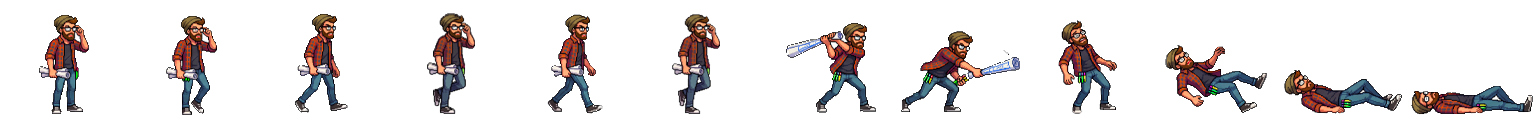
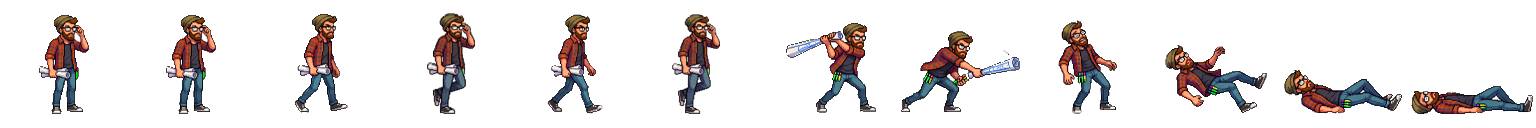
feat: add new taxi asset and implement multi-phase boss mechanics with enhanced attack patterns

Changed region(s): [[0.0938, 0.125, 0.1562, 0.9062]]

diff --git a/game_v2/js/PixelPunchEngine.js b/game_v2/js/PixelPunchEngine.js
@@ -152,7 +152,7 @@
     {
       title: 'LA SCADENZA',
       subtitle: 'VENERDÌ ORE 19:00',
-      text: 'È venerdì sera a Torino e mancano solo 5 ore alla scadenza improrogabile del progetto della vita.\n\nLa campagna da un milione di euro che salverà ActingOut dal fallimento e dalla vendita alla multinazionale "RAI" è pronta per l\'esportazione.'
+      text: 'È venerdì sera a Torino e mancano solo 5 ore alla scadenza improrogabile del progetto della vita.\n\nLa campagna da un milione di euro che salverà ActingOut dal fallimento e dalla vendita alla multinazionale "RAI" è pronta per\'esportazione.'
     },
     {
       title: 'IL SABOTAGGIO',
@@ -563,6 +563,7 @@
       }
       this.load.spritesheet(`boss_${s}`, ROOT + `boss/${BOSS_FILES[s - 1]}`, { frameWidth: 128, frameHeight: 128 });
 
+      // Crate e oggetti distruttibili
       CRATES[s - 1].forEach((name, i) => {
         const base = `oggettidistruttibili/Scenario${s}/${name}_crate_`;
         loadImage(this, `crate_${i}_whole`, base + 'whole.png');
@@ -572,6 +573,11 @@
       });
       PICKUPS[s - 1].forEach((file, i) => loadImage(this, `point_${i}`, `raccoglibili/Scenario${s}/${file}`));
       LIVES[s - 1].forEach((file, i) => loadImage(this, `life_${i}`, `vite/Scenario${s}/${file}`));
+
+      // Asset specifico per Taxi proiettile Boss 3
+      if (s === 3) {
+        loadImage(this, 'taxi_vehicle', 'cattivi/taxi.png');
+      }
     }
 
     create() {
@@ -618,6 +624,7 @@
       });
       [0x56f7ff, 0xffdb42, 0xff54b3].forEach((color, i) => ensureImage(this, `point_${i}`, 40, 40, color));
       [0x5cff72, 0x39ffbc].forEach((color, i) => ensureImage(this, `life_${i}`, 40, 40, color));
+      if (this.stage === 3) ensureImage(this, 'taxi_vehicle', 120, 50, 0xffea00);
     }
 
     createAnimations() {
@@ -680,9 +687,14 @@
       this.physics.add.overlap(this.player, this.pickupGroup, this.collectPickup, undefined, this);
     }
 
+    // Ingrandimento speciale per gli ostacoli di Scenario 2 (Luce/Faretti)
     resizeCrate(crate, textureKey) {
       const frame = this.textures.getFrame(textureKey);
-      const maxDimension = 54 * OBJECT_SCALE * (crate.isCoffeeMachine ? 1.15 : 1);
+      let multiplier = crate.isCoffeeMachine ? 1.15 : 1;
+      if (this.stage === 2 && crate.variant === 0) {
+        multiplier *= 2; // Raddoppiato come richiesto
+      }
+      const maxDimension = 54 * OBJECT_SCALE * multiplier;
       const scale = maxDimension / Math.max(frame.width, frame.height);
       const width = frame.width * scale;
       const height = frame.height * scale;
@@ -906,10 +918,16 @@
       
       boss.setDepth(boss.y);
       boss.hp = 200 + this.stage * 50; boss.maxHp = boss.hp; boss.damage = 18 + this.stage * 3;
-      boss.speed = 55 + this.stage * 3;
-      boss.nextAttack = this.time.now + 1250; boss.isBoss = true; boss.facing = side === 'left' ? 1 : -1;
+      boss.speed = 70 + this.stage * 4;
+      boss.nextAttack = this.time.now + 1200; boss.isBoss = true; boss.facing = side === 'left' ? 1 : -1;
       boss.pattern = this.stage;
-      boss.isCasting = false;
+      
+      // Stato combattimento Boss a due fasi (Casting ad area & Carica ravvicinata)
+      boss.mode = 'cast'; // 'cast' oppure 'rush'
+      boss.castWavesDone = 0;
+      boss.castQuota = 1; // Parte con 1 ondata, poi incrementa
+      boss.rushTimeEnd = 0;
+
       boss.body.setSize(40, 20).setOffset(44, 108);
       this.bindActorAnimationEvents(boss, `boss_${this.stage}`, 17);
       boss.play(`boss_${this.stage}_idle`);
@@ -944,28 +962,57 @@
       });
     }
 
+    // --- NUOVA LOGICA BOSS A FASI ONDATE & CARICA ---
     updateBoss(boss, time) {
-      if (boss.isCasting) {
-        boss.setVelocity(0);
+      const cameraLeft = this.cameras.main.scrollX;
+
+      // FASE 1: CASTING AD AREA DAL BORDO SCHERMO
+      if (boss.mode === 'cast') {
+        const sideTargetX = boss.facing < 0 ? cameraLeft + W - 50 : cameraLeft + 50;
+        const dxSide = sideTargetX - boss.x;
+
+        if (Math.abs(dxSide) > 15) {
+          boss.setVelocityX(Math.sign(dxSide) * boss.speed);
+          this.playActorAnim(boss, 'walk', true);
+        } else {
+          boss.setVelocity(0);
+          this.playActorAnim(boss, 'idle', true);
+        }
+
+        if (time >= boss.nextAttack) {
+          this.triggerBossPattern(boss, time);
+        }
         return;
       }
 
-      const dx = this.player.x - boss.x;
-      const dy = this.player.y - boss.y;
-      boss.facing = dx < 0 ? -1 : 1;
-      boss.setFlipX(boss.facing < 0);
+      // FASE 2: ATTACCO RAVVICINATO (INSEGUIMENTO)
+      if (boss.mode === 'rush') {
+        if (time >= boss.rushTimeEnd) {
+          // Ritorna in modalità Cast con una quota di ondate incrementata
+          boss.mode = 'cast';
+          boss.castWavesDone = 0;
+          boss.castQuota = Math.min(4, boss.castQuota + 1);
+          boss.nextAttack = time + 1000;
+          return;
+        }
 
-      if (Math.abs(dx) > 130 || Math.abs(dy) > 30) {
-        const v = new Phaser.Math.Vector2(dx, dy * 1.1).normalize();
-        boss.setVelocity(v.x * boss.speed, v.y * boss.speed * 0.65);
-        this.playActorAnim(boss, 'walk', true);
-      } else {
-        boss.setVelocity(0);
-        this.playActorAnim(boss, 'idle', true);
-      }
+        const dx = this.player.x - boss.x;
+        const dy = this.player.y - boss.y;
+        boss.facing = dx < 0 ? -1 : 1;
+        boss.setFlipX(boss.facing < 0);
 
-      if (time >= boss.nextAttack) {
-        this.triggerBossPattern(boss, time);
+        if (Math.abs(dx) > 90 || Math.abs(dy) > 28) {
+          const v = new Phaser.Math.Vector2(dx, dy * 1.2).normalize();
+          boss.setVelocity(v.x * boss.speed * 1.15, v.y * boss.speed * 0.8);
+          this.playActorAnim(boss, 'walk', true);
+        } else {
+          boss.setVelocity(0);
+          if (time >= boss.nextAttack) {
+            this.enemyAttack(boss, time);
+          } else {
+            this.playActorAnim(boss, 'idle', true);
+          }
+        }
       }
     }
 
@@ -977,21 +1024,21 @@
       this.tweens.add({ targets: text, alpha: 0, y: 88, delay: 900, duration: 500, onComplete: () => text.destroy() });
     }
 
-    addBossHazard({ x, y, width, height, delay = 900, duration = 400, color = 0xff0055, label = '', vx = 0, circle = false }) {
+    // TELEGRAFI GRAFICI PIXEL-ART (SENZA TESTO) CON TIMING E INDICATORE D'IMPATTO
+    addBossHazard({ x, y, width, height, delay = 850, duration = 350, color = 0xff0055, vx = 0, circle = false, spriteKey = null }) {
       const graphics = this.add.graphics().setDepth(8999);
-      
-      const text = label
-        ? this.add.text(x, y, label, {
-            fontFamily: 'monospace', fontSize: '14px', color: '#ffffff', fontStyle: 'bold',
-            backgroundColor: '#000000aa', padding: { x: 6, y: 4 }, stroke: '#ff0055', strokeThickness: 3
-          }).setOrigin(0.5).setDepth(9001)
-        : null;
+      let sprite = null;
+
+      if (spriteKey) {
+        sprite = this.physics.add.sprite(x, y, spriteKey).setDepth(9001).setVisible(false);
+        fitImage(sprite, width, height);
+      }
 
       this.bossHazards.push({
         x, y, width, height,
         delayEnds: this.time.now + delay,
         ends: this.time.now + delay + duration,
-        color, vx, circle, graphics, text,
+        color, vx, circle, graphics, sprite,
         totalDelay: delay,
         hasHit: false
       });
@@ -1001,43 +1048,54 @@
       this.bossHazards = this.bossHazards.filter(hazard => {
         if (hazard.vx && time >= hazard.delayEnds) {
           hazard.x += hazard.vx * delta / 1000;
-          if (hazard.text) hazard.text.x = hazard.x;
+          if (hazard.sprite) {
+            hazard.sprite.setVisible(true);
+            hazard.sprite.x = hazard.x;
+          }
         }
 
         hazard.graphics.clear();
 
-        // FASE 1: CARICA / WARNING (Con timer visivo di ricarica)
+        // FASE 1: PREAVVISO PIXEL-ART (Lampeggio e barra di carica)
         if (time < hazard.delayEnds) {
           const progress = 1 - ((hazard.delayEnds - time) / hazard.totalDelay);
-          const pulse = Math.sin(time / 50) > 0;
-
-          hazard.graphics.fillStyle(0xffea00, pulse ? 0.25 : 0.10);
-          hazard.graphics.lineStyle(3, 0xff0055, pulse ? 1 : 0.5);
+          const pulse = Math.floor(time / 60) % 2 === 0;
 
           if (hazard.circle) {
+            // Cerchio rosso pieno stile pixel art
+            hazard.graphics.fillStyle(hazard.color, pulse ? 0.35 : 0.15);
             hazard.graphics.fillCircle(hazard.x, hazard.y, hazard.width / 2);
+            hazard.graphics.lineStyle(4, 0xffffff, pulse ? 0.9 : 0.4);
             hazard.graphics.strokeCircle(hazard.x, hazard.y, hazard.width / 2);
-            hazard.graphics.lineStyle(2, 0xffea00, 0.9);
+            
+            // Anello interno di carica
+            hazard.graphics.lineStyle(3, 0xffea00, 0.9);
             hazard.graphics.strokeCircle(hazard.x, hazard.y, (hazard.width / 2) * progress);
           } else {
+            hazard.graphics.fillStyle(hazard.color, pulse ? 0.30 : 0.12);
             hazard.graphics.fillRect(hazard.x - hazard.width / 2, hazard.y - hazard.height / 2, hazard.width, hazard.height);
+            hazard.graphics.lineStyle(4, 0xffffff, pulse ? 0.9 : 0.4);
             hazard.graphics.strokeRect(hazard.x - hazard.width / 2, hazard.y - hazard.height / 2, hazard.width, hazard.height);
-            hazard.graphics.fillStyle(0xffea00, 0.4);
+
+            // Barra di carica a blocchi retro
+            hazard.graphics.fillStyle(0xffea00, 0.5);
             hazard.graphics.fillRect(hazard.x - hazard.width / 2, hazard.y - hazard.height / 2, hazard.width * progress, hazard.height);
           }
           return true;
         }
 
-        // FASE 2: IMPATTO / DANNO CHIARO AD ALTO CONTRASTO
-        hazard.graphics.fillStyle(0xff0055, 0.65);
-        hazard.graphics.lineStyle(4, 0xffffff, 1);
+        // FASE 2: IMPATTO FISICO
+        if (!hazard.sprite) {
+          hazard.graphics.fillStyle(hazard.color, 0.75);
+          hazard.graphics.lineStyle(4, 0xffffff, 1);
 
-        if (hazard.circle) {
-          hazard.graphics.fillCircle(hazard.x, hazard.y, hazard.width / 2);
-          hazard.graphics.strokeCircle(hazard.x, hazard.y, hazard.width / 2);
-        } else {
-          hazard.graphics.fillRect(hazard.x - hazard.width / 2, hazard.y - hazard.height / 2, hazard.width, hazard.height);
-          hazard.graphics.strokeRect(hazard.x - hazard.width / 2, hazard.y - hazard.height / 2, hazard.width, hazard.height);
+          if (hazard.circle) {
+            hazard.graphics.fillCircle(hazard.x, hazard.y, hazard.width / 2);
+            hazard.graphics.strokeCircle(hazard.x, hazard.y, hazard.width / 2);
+          } else {
+            hazard.graphics.fillRect(hazard.x - hazard.width / 2, hazard.y - hazard.height / 2, hazard.width, hazard.height);
+            hazard.graphics.strokeRect(hazard.x - hazard.width / 2, hazard.y - hazard.height / 2, hazard.width, hazard.height);
+          }
         }
 
         if (!hazard.hasHit) {
@@ -1054,14 +1112,12 @@
         if (time < hazard.ends) return true;
 
         hazard.graphics.destroy();
-        if (hazard.text) hazard.text.destroy();
+        if (hazard.sprite) hazard.sprite.destroy();
         return false;
       });
     }
 
     triggerBossPattern(boss, time) {
-      boss.isCasting = true;
-      boss.setVelocity(0);
       this.playActorAnim(boss, 'atk');
 
       const cameraLeft = this.cameras.main.scrollX;
@@ -1070,8 +1126,8 @@
       const midY = (MOVEMENT_TOP + MOVEMENT_BOTTOM) / 2;
       const botY = MOVEMENT_BOTTOM - 30;
 
+      // PATTERN A ONDATE PULITE
       if (boss.pattern === 1) {
-        this.showBossCallout('BRIEF BOMB — SCHIVA I CERCHI!');
         const safeXIndex = Phaser.Math.Between(0, 2);
         const slotsX = [cameraLeft + 100, cameraLeft + 256, cameraLeft + 412];
         
@@ -1079,14 +1135,12 @@
           if (idx !== safeXIndex) {
             this.addBossHazard({
               x: posX, y: midY, width: 110, height: 110,
-              delay: 1000, duration: 350, color: 0xff3e91, label: '⚠ BOMB', circle: true
+              delay: 950, duration: 350, color: 0xff3e91, circle: true
             });
           }
         });
-        boss.nextAttack = time + 3200;
 
       } else if (boss.pattern === 2) {
-        this.showBossCallout('CIACK! — CAMBIA CORSIA!');
         const lanes = [topY, midY, botY];
         const safeLaneIdx = Phaser.Math.Between(0, 2);
 
@@ -1094,65 +1148,67 @@
           if (idx !== safeLaneIdx) {
             this.addBossHazard({
               x: centerX, y: laneY, width: W - 20, height: 42,
-              delay: 1100, duration: 450, color: 0xffea00, label: '⚠ CIACK'
+              delay: 1000, duration: 400, color: 0xffea00
             });
           }
         });
-        boss.nextAttack = time + 3400;
 
       } else if (boss.pattern === 3) {
-        this.showBossCallout('TAXI DRIFT — CAMBIA ALTEZZA!');
+        // TAXI DRIFT: Usa lo sprite del Taxi caricato come proiettile
         const targetY = this.player.y;
         const fromLeft = boss.x < centerX;
 
         this.addBossHazard({
           x: fromLeft ? cameraLeft - 60 : cameraLeft + W + 60,
           y: targetY, width: 130, height: 48,
-          delay: 900, duration: 1200, color: 0x00f0ff, label: '🚖 TAXI!',
-          vx: fromLeft ? 520 : -520
+          delay: 850, duration: 1200, color: 0x00f0ff,
+          vx: fromLeft ? 540 : -520,
+          spriteKey: 'taxi_vehicle'
         });
-        boss.nextAttack = time + 3300;
 
       } else if (boss.pattern === 4) {
-        this.showBossCallout('REVISIONE — TROVA IL VARCO!');
         const safeGapX = Phaser.Math.Between(cameraLeft + 120, cameraLeft + W - 120);
 
         this.addBossHazard({
           x: (cameraLeft + safeGapX - 60) / 2, y: midY,
           width: (safeGapX - 60) - cameraLeft, height: MOVEMENT_BOTTOM - MOVEMENT_TOP,
-          delay: 1200, duration: 400, color: 0xa260ff, label: 'BLOCCO'
+          delay: 1100, duration: 400, color: 0xa260ff
         });
         this.addBossHazard({
           x: (safeGapX + 60 + cameraLeft + W) / 2, y: midY,
           width: (cameraLeft + W) - (safeGapX + 60), height: MOVEMENT_BOTTOM - MOVEMENT_TOP,
-          delay: 1200, duration: 400, color: 0xa260ff, label: 'BLOCCO'
+          delay: 1100, duration: 400, color: 0xa260ff
         });
-        boss.nextAttack = time + 3600;
 
       } else {
-        this.showBossCallout('FINAL PITCH — SCHIVA IL RITMO!');
         [0, 1, 2].forEach(step => {
-          this.time.delayedCall(step * 400, () => {
+          this.time.delayedCall(step * 350, () => {
             if (!this.stageEnded && boss.active) {
               this.addBossHazard({
                 x: cameraLeft + 80 + step * 150, y: (step % 2 === 0) ? topY : botY,
-                width: 90, height: 90, delay: 700, duration: 300, color: 0xff0055, label: 'DEADLINE', circle: true
+                width: 90, height: 90, delay: 650, duration: 300, color: 0xff0055, circle: true
               });
             }
           });
         });
-        boss.nextAttack = time + 3800;
       }
 
-      this.time.delayedCall(1100, () => {
-        if (boss.active) boss.isCasting = false;
-      });
+      boss.castWavesDone++;
+
+      // Se ha completato le ondate previste per questa fase, passa al Rush (Inseguimento ravvicinato)
+      if (boss.castWavesDone >= boss.castQuota) {
+        boss.mode = 'rush';
+        boss.rushTimeEnd = time + (3000 + boss.castQuota * 1000); // La carica dura progressivamente di più
+        boss.nextAttack = time + 400;
+      } else {
+        boss.nextAttack = time + 2200;
+      }
     }
 
     enemyAttack(enemy, time) {
-      enemy.nextAttack = time + (enemy.isBoss ? 2600 : Math.max(1400, 2200 - this.stage * 150));
+      enemy.nextAttack = time + (enemy.isBoss ? 1600 : Math.max(1400, 2200 - this.stage * 150));
       enemy.stateLocked = true; enemy.setVelocity(0); this.playActorAnim(enemy, 'atk');
-      this.time.delayedCall(enemy.isBoss ? 550 : 220, () => {
+      this.time.delayedCall(enemy.isBoss ? 450 : 220, () => {
         if (!enemy.active || this.stageEnded) return;
         if (Math.abs(this.player.x - enemy.x) < (enemy.isBoss ? 155 : 118) && Math.abs(this.player.y - enemy.y) < 54) this.damagePlayer(enemy.damage);
       });
